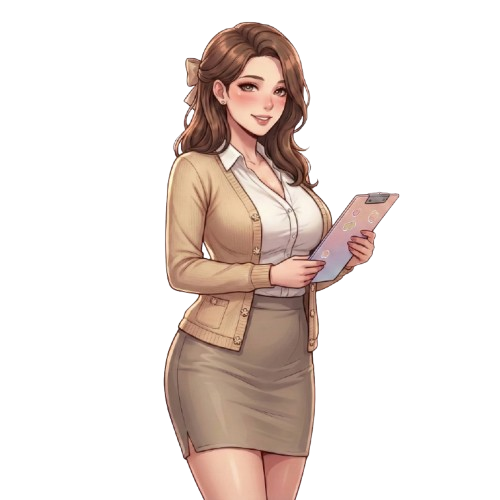
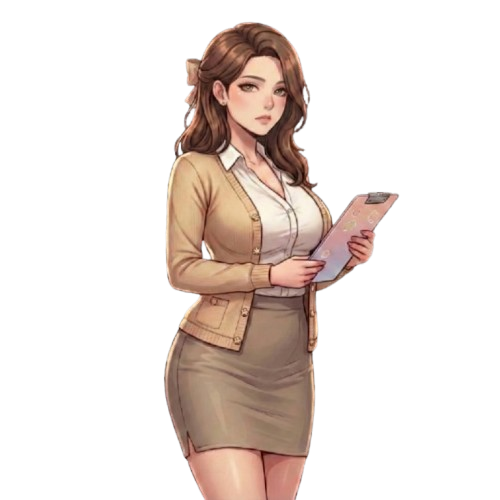
fix(scenario): 교사의 표정을 '미소'로 변경하고 새로운 이미지 추가

diff --git a/assets/js/scenario/ko_day1_1_morning.js b/assets/js/scenario/ko_day1_1_morning.js
@@ -332,7 +332,7 @@ Object.assign(SCENARIO[1], {
         text: "\"자, 다들 전학생한테 관심이 아주 많네. 긴장되겠지만 다들 좋은 아이들이니까 너무 걱정하지 마. 자기소개 하기 전에 나한테 궁금한 거라도 있니?\"",
         context: "장소: 2학년 3반 교실 안 교탁 앞. 상황: 담임선생님이 전학생인 주인공을 학생들에게 소개하기 직전의 짧은 대기 시간. 수십 명의 학생들이 우리를 지켜보고 있음. 우리는 이미 교실 한가운데 서 있는 상태이며, 절대 복도가 아님. 교실 안에서 대화를 나누는 중임. 대화가 끝나면 선생님이 학생들에게 주인공을 정식으로 소개하고, 주인공은 교탁 앞에서 자기소개를 해야 하는 상황으로 이어집니다. 대화 마무리 시점에 학생들에게 인사할 준비를 하라고 하거나 자리를 정돈하는 등의 행동을 유도해 주세요.",
         personality: "공과 사가 뚜렷한 전문적인 교사지만 사실 허당기가 있고 주인공의 예상치 못한 어른스러운 모습에 가슴 설레어함. 은근히 주인공에게 기대고 싶어 하는 '갭모에'가 있음.",
-        character: "assets/images/characters/teacher.png",
+        character: "assets/images/characters/teacher_smile.png",
         next: "classroom_2_3"
     },
     "classroom_2_3": {
@@ -350,7 +350,7 @@ Object.assign(SCENARIO[1], {
     "teacher_name_share": {
         name: "담임선생님",
         text: "\"오, {name}... 이름 참 예쁘네. 자, {name}. 친구들에게 자기소개 한마디 부탁할게.\"",
-        character: "assets/images/characters/teacher.png",
+        character: "assets/images/characters/teacher_smile.png",
         choices: [
             { text: "엄청나게 텐션 높게 인사한다!", next: "class_after_party", setFlag: "personality_active" },
             { text: "활발하게 인사한다.", next: "class_after_active", setFlag: "personality_active" },

diff --git a/assets/js/scenario/en_day1_1_morning.js b/assets/js/scenario/en_day1_1_morning.js
@@ -332,7 +332,7 @@ Object.assign(SCENARIO[1], {
         text: "\"Now, everyone is very interested in you. You must be nervous, but they're all good kids, so don't worry too much. Do you have any questions for me before you introduce yourself?\"",
         context: "Place: Inside Class 2-3, in front of the podium. Situation: A short waiting time just before the homeroom teacher introduces the transfer student protagonist to the students. Dozens of students are watching us. We are already in the middle of the classroom, definitely not in the hallway. We are having a conversation inside the classroom. After the conversation, the teacher will formally introduce the protagonist to the students, and the protagonist will have to introduce themselves in front of the podium. At the end of the conversation, please induce actions such as telling the protagonist to get ready to greet the students or to straighten up.",
         personality: "A professional teacher with a clear distinction between public and private life, but actually has a clumsy side and feels flustered by the protagonist's unexpectedly mature appearance. She has a 'gap moe' where she secretly wants to rely on the protagonist.",
-        character: "assets/images/characters/teacher.png",
+        character: "assets/images/characters/teacher_smile.png",
         next: "classroom_2_3"
     },
     "classroom_2_3": {
@@ -350,7 +350,7 @@ Object.assign(SCENARIO[1], {
     "teacher_name_share": {
         name: "Homeroom Teacher",
         text: "\"Oh, so your name is {name}. It's a very pretty name. Now, {name}. Can you give a word of introduction to your friends?\"",
-        character: "assets/images/characters/teacher.png",
+        character: "assets/images/characters/teacher_smile.png",
         choices: [
             { text: "Greet with incredibly high tension!", next: "class_after_party", setFlag: "personality_active" },
             { text: "Greet actively.", next: "class_after_active", setFlag: "personality_active" },

diff --git a/assets/js/main.js b/assets/js/main.js
@@ -92,13 +92,15 @@ const CHARACTER_EXPRESSIONS = {
         "normal": "assets/images/characters/teacher.png",
         "angry": "assets/images/characters/teacher_angry.png",
         "shy": "assets/images/characters/teacher_shy.png",
-        "sad": "assets/images/characters/teacher_sad.png"
+        "sad": "assets/images/characters/teacher_sad.png",
+        "smile": "assets/images/characters/teacher_smile.png"
     },
     "Teacher": {
         "normal": "assets/images/characters/teacher.png",
         "angry": "assets/images/characters/teacher_angry.png",
         "shy": "assets/images/characters/teacher_shy.png",
-        "sad": "assets/images/characters/teacher_sad.png"
+        "sad": "assets/images/characters/teacher_sad.png",
+        "smile": "assets/images/characters/teacher_smile.png"
     },
     "보건선생님": {
         "normal": "assets/images/characters/nurse.png",

diff --git a/assets/js/scenario/ko_day1_3_afterschool.js b/assets/js/scenario/ko_day1_3_afterschool.js
@@ -79,7 +79,7 @@ Object.assign(SCENARIO[1], {
     "after_teacher_info": {
         name: "담임선생님",
         text: "\"그래, 우리 학교는 역사가 깊어서 숨겨진 곳이 많단다. 나중에 선생님이 천천히 안내해줄게.\"",
-        character: "assets/images/characters/teacher.png",
+        character: "assets/images/characters/teacher_smile.png",
         sunset: true,
         next: "after_teacher_contact"
     },

diff --git a/assets/js/scenario/en_day1_3_afterschool.js b/assets/js/scenario/en_day1_3_afterschool.js
@@ -79,7 +79,7 @@ Object.assign(SCENARIO[1], {
     "after_teacher_info": {
         name: "Homeroom Teacher",
         text: "\"Yes, our school has a long history, so there are many hidden places. I'll show you around slowly later.\"",
-        character: "assets/images/characters/teacher.png",
+        character: "assets/images/characters/teacher_smile.png",
         sunset: true,
         next: "after_teacher_contact"
     },
